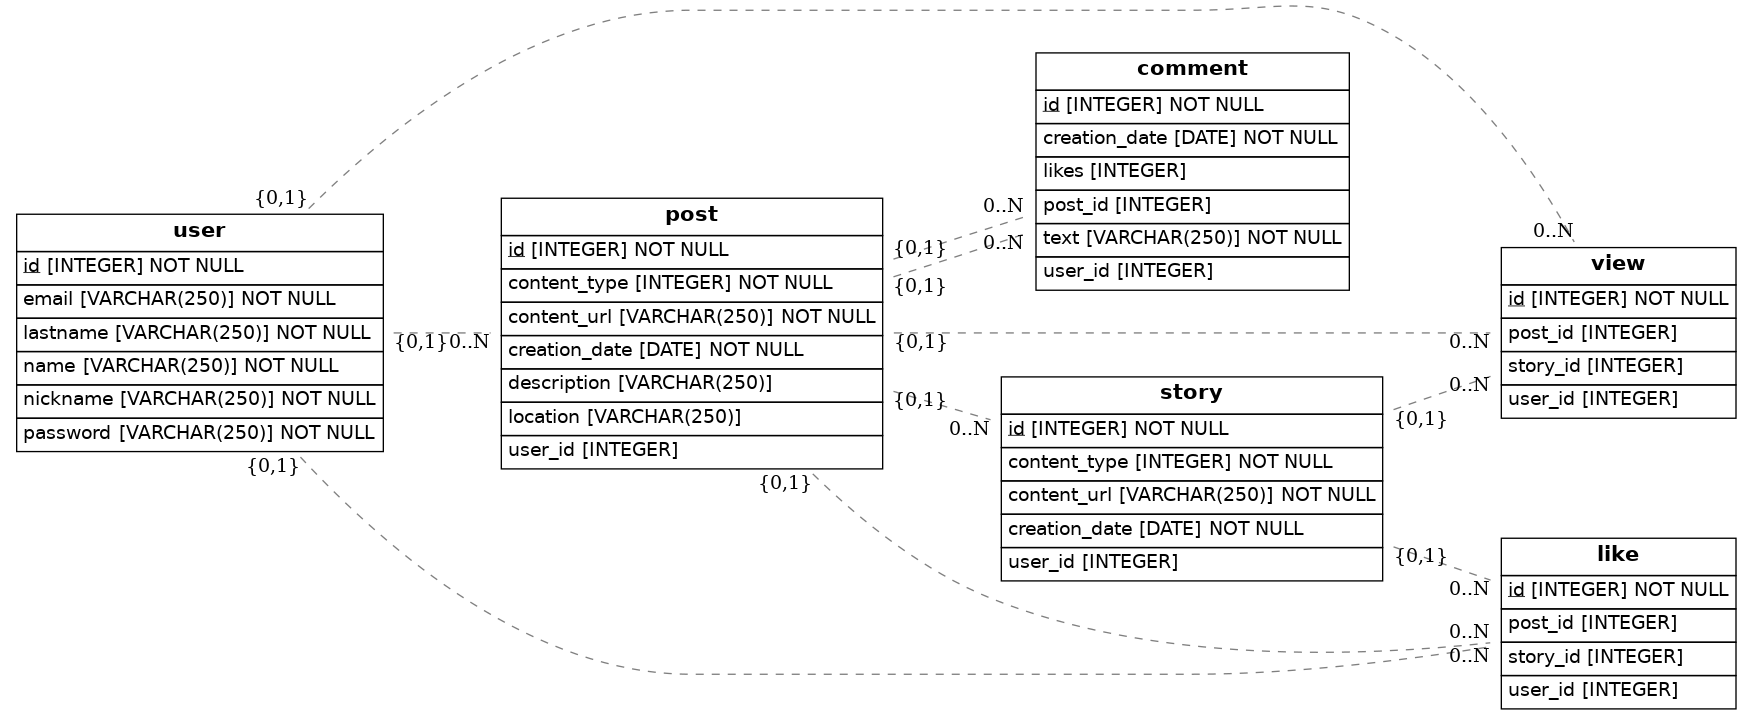
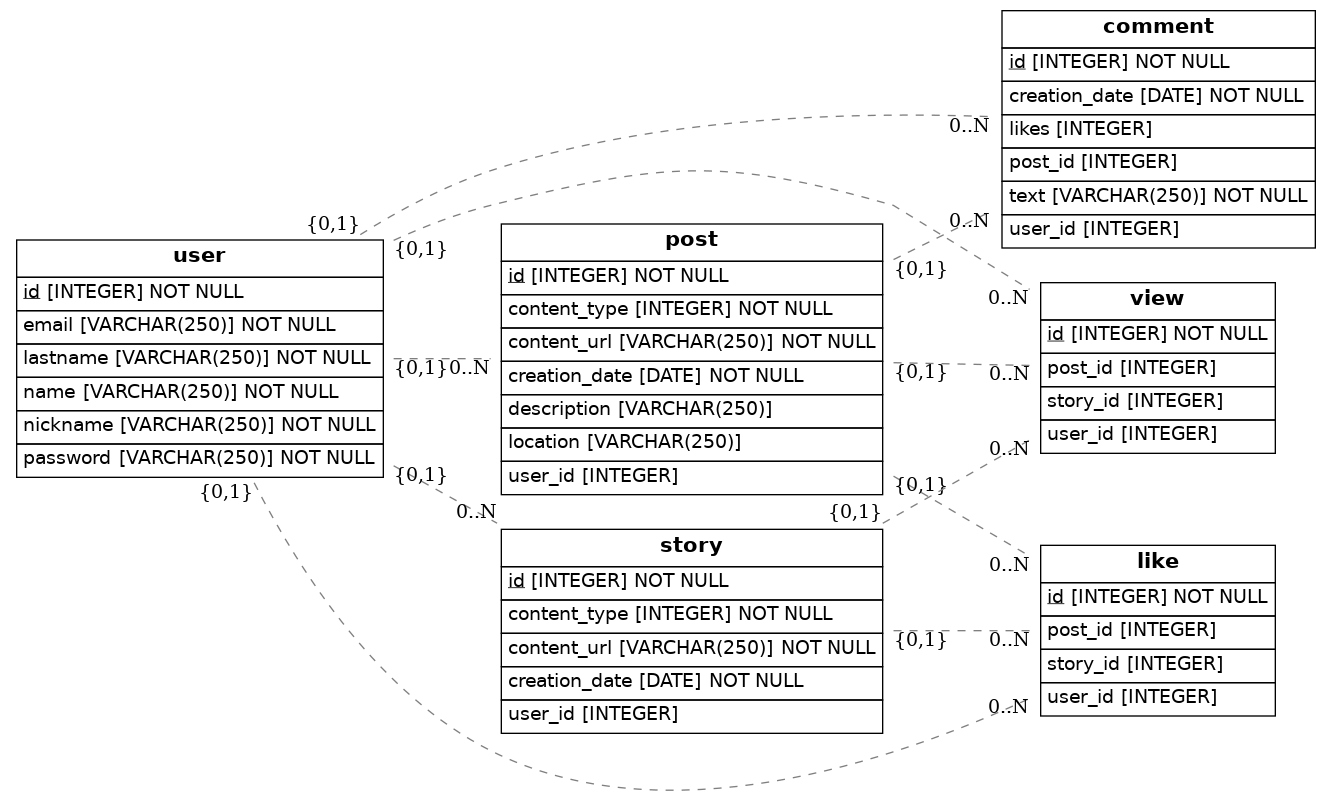
Corrige ForeignKey en modelos de datos

Changed region(s): [[0.0, 0.0, 1.0, 1.0], [0.5853, 0.0611, 0.6161, 0.0917], [0.3388, 0.2444, 0.3696, 0.275]]

diff --git a/src/models.py b/src/models.py
@@ -33,7 +33,7 @@ class Comment(Base):
     id = Column(Integer, primary_key=True)
     post_id = Column(Integer, ForeignKey('post.id'))
     post = relationship(Post)
-    user_id = Column(Integer, ForeignKey('post.id'))
+    user_id = Column(Integer, ForeignKey('user.id'))
     user = relationship(User)
     text = Column(String(250), nullable=False)
     likes = Column(Integer)
@@ -42,7 +42,7 @@ class Comment(Base):
 class Story(Base):
     __tablename__ = 'story'
     id = Column(Integer, primary_key=True)
-    user_id = Column(Integer, ForeignKey('post.id'))
+    user_id = Column(Integer, ForeignKey('user.id'))
     user = relationship(User)
     content_url = Column(String(250), nullable=False)
     content_type = Column(Integer, nullable=False)
